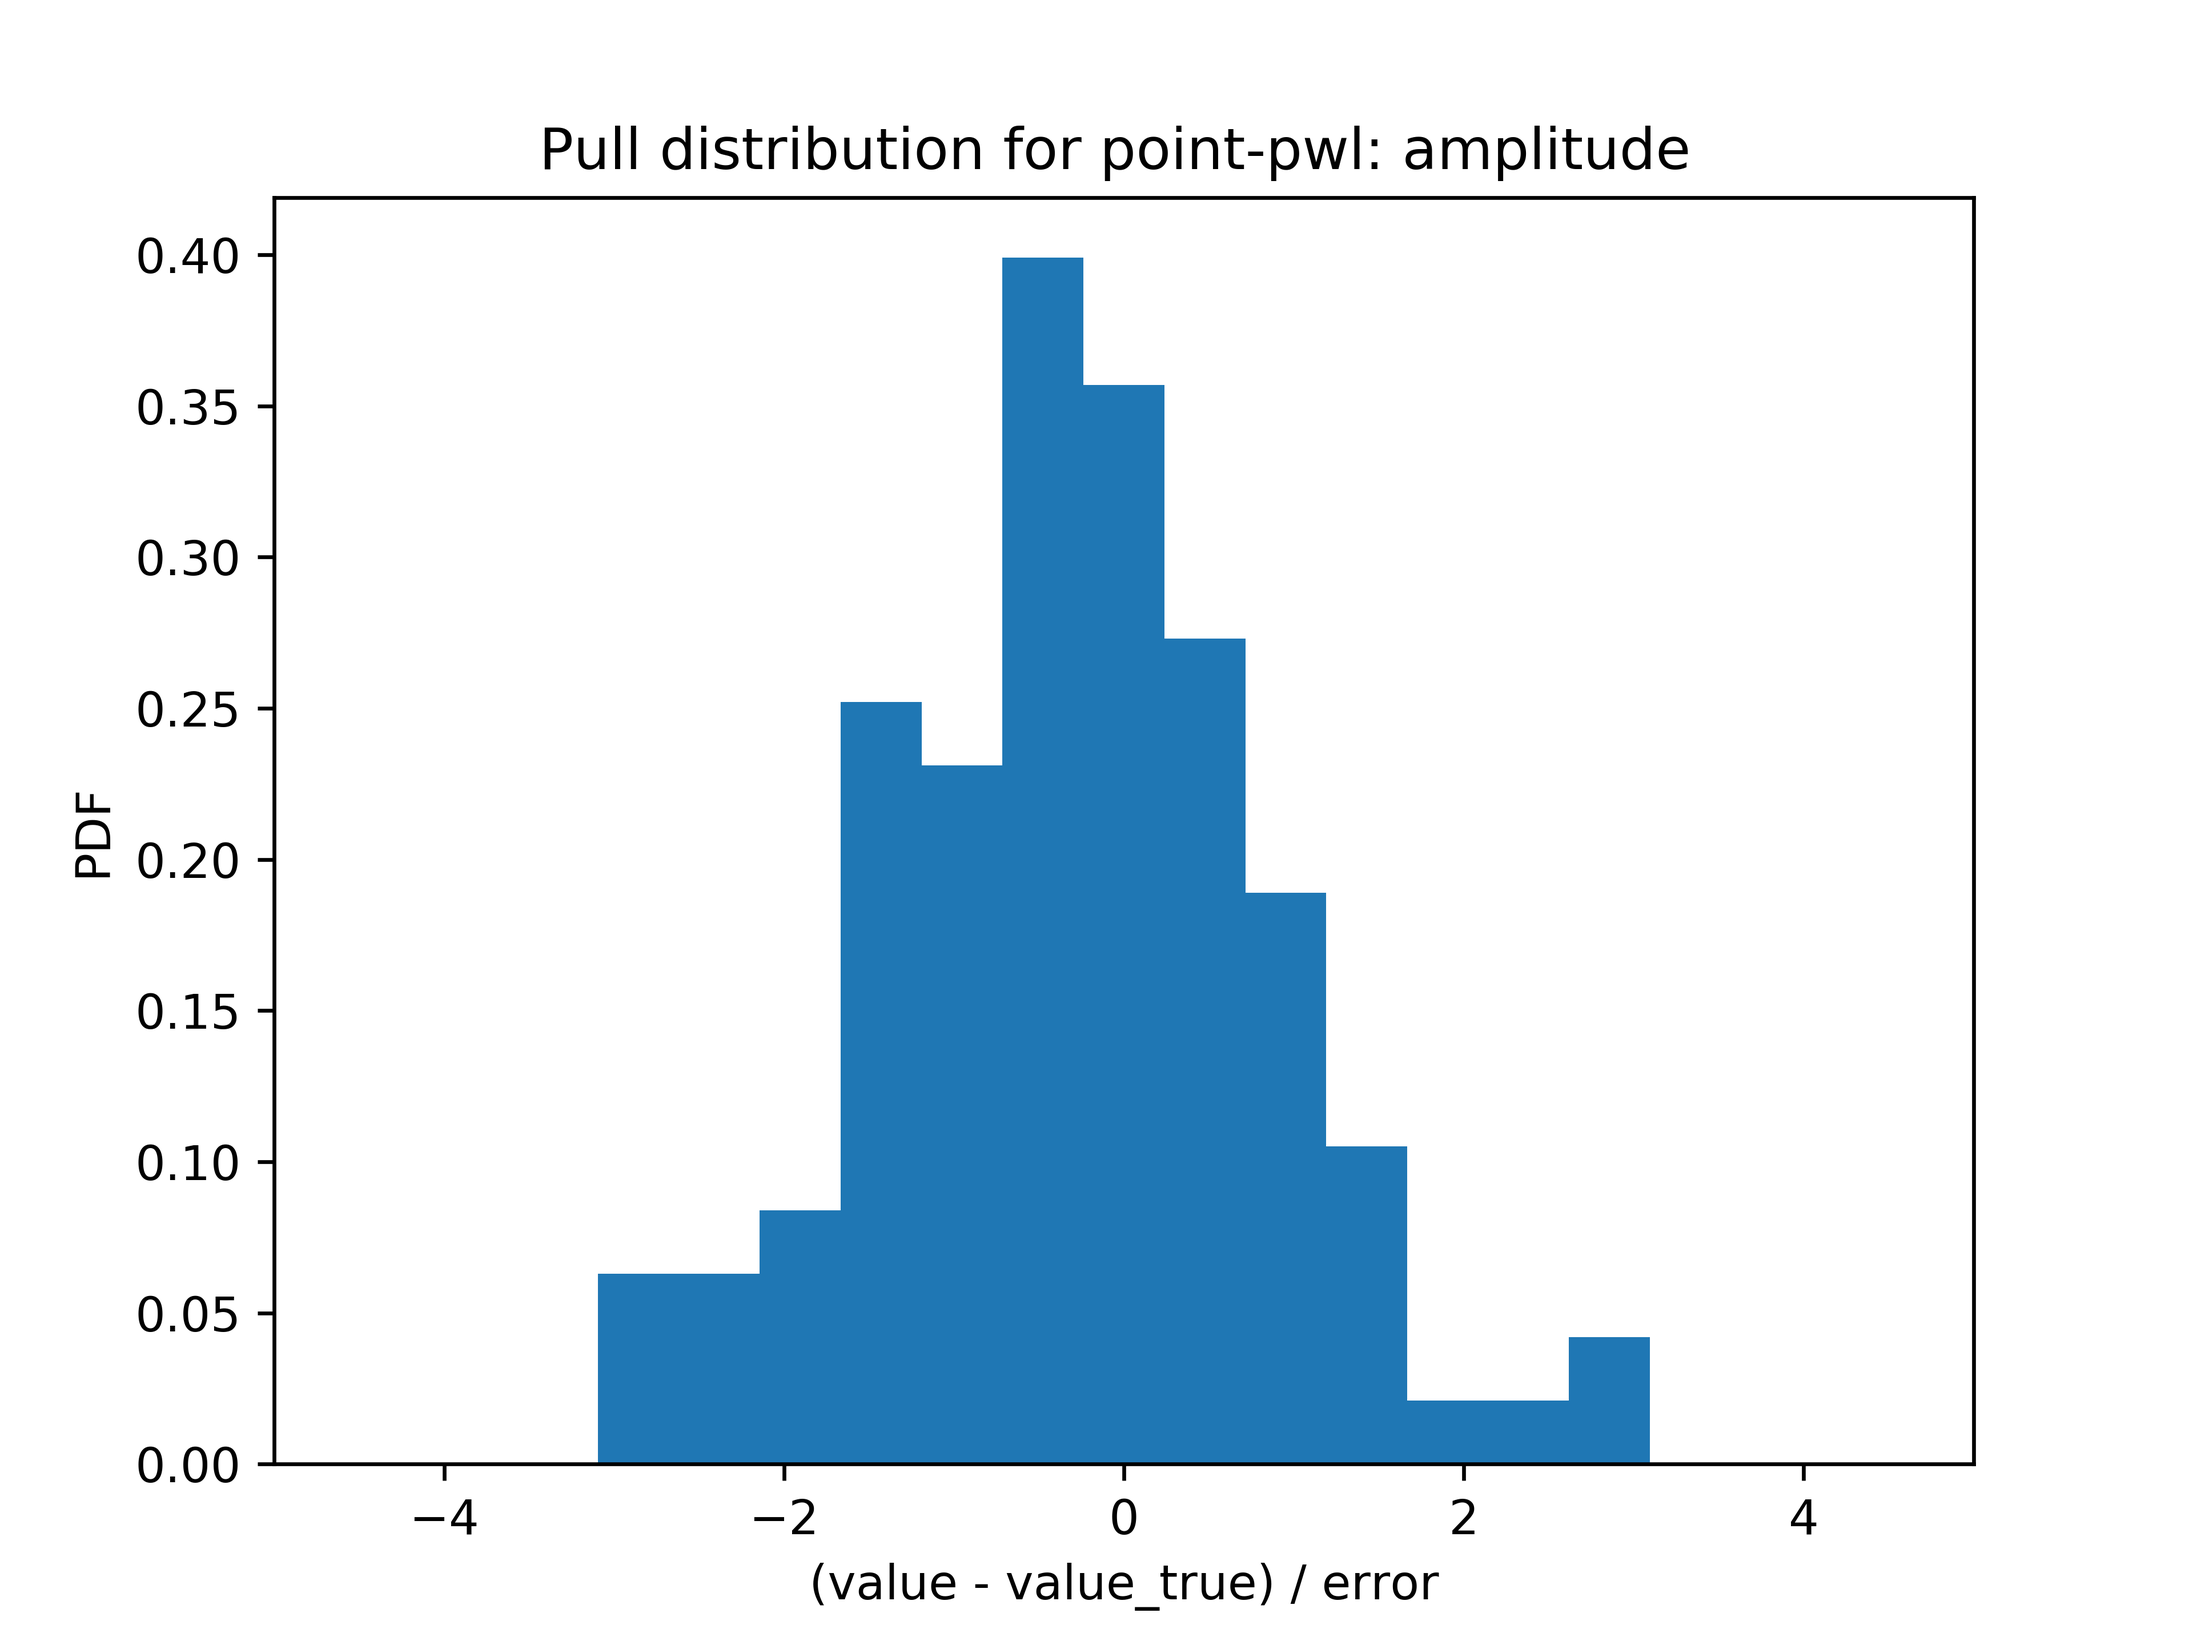
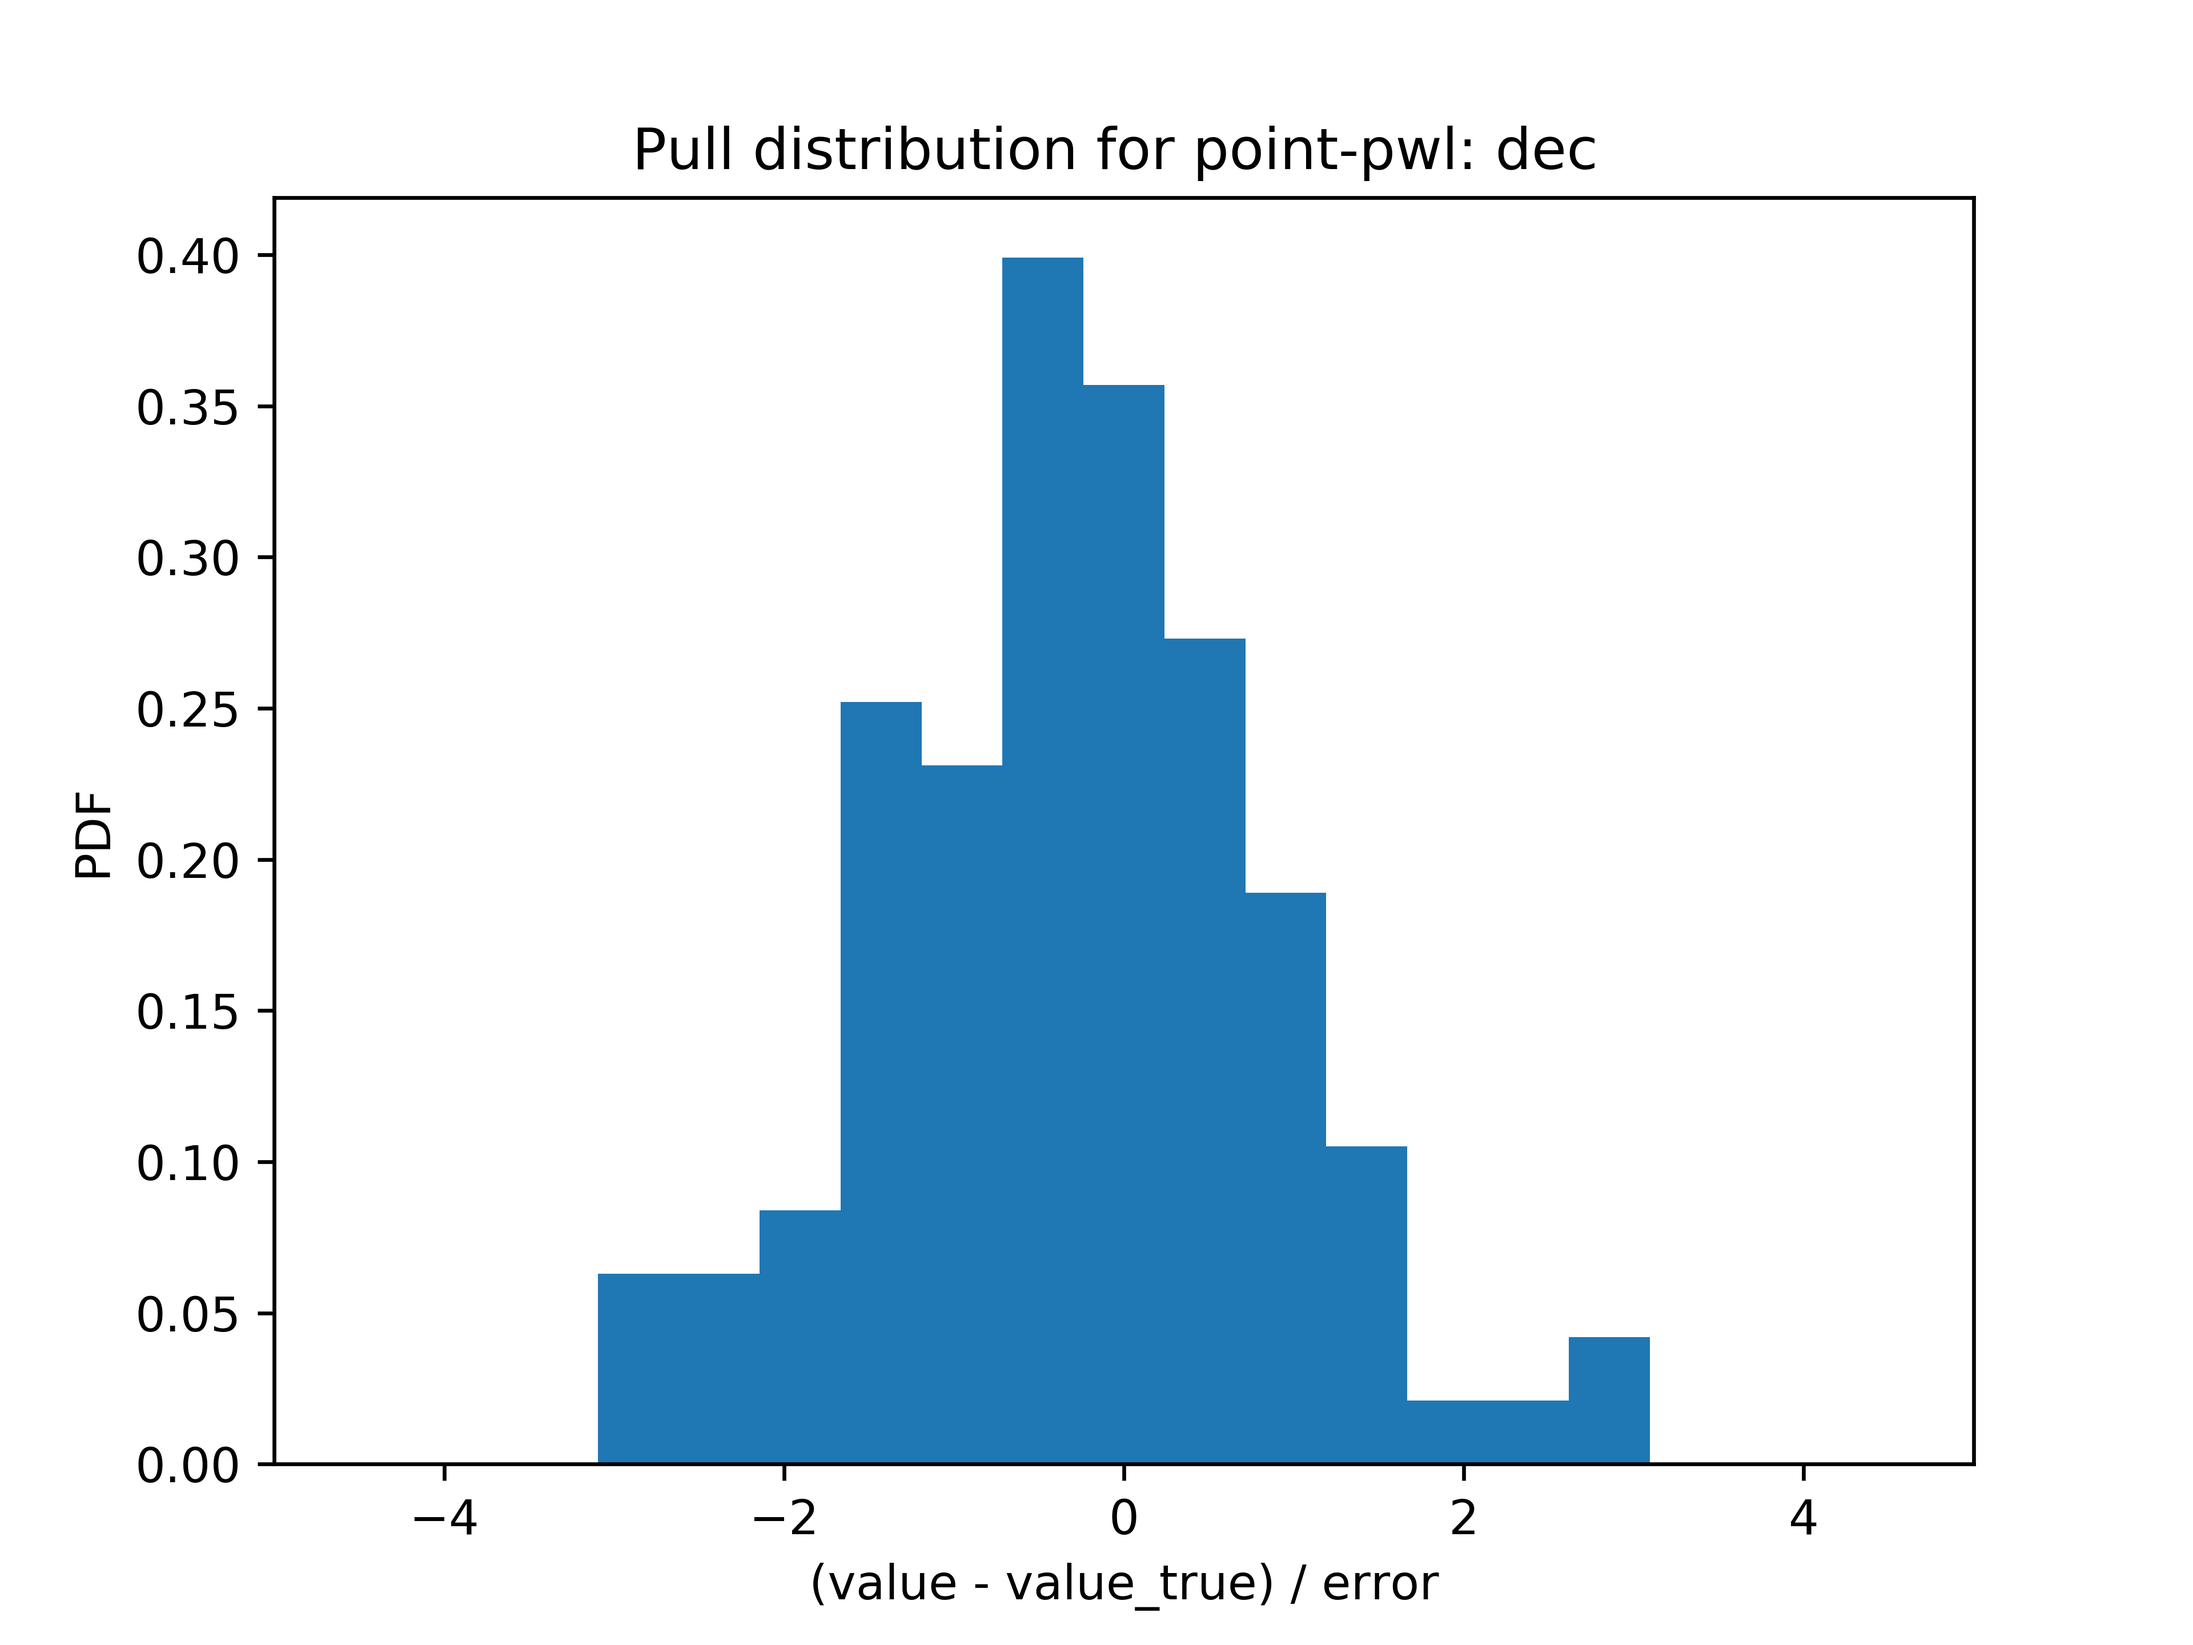
fixing bugs

Changed region(s): [[0.25, 0.0625, 0.7812, 0.125]]

diff --git a/validation/event-sampling/ctools/make.py b/validation/event-sampling/ctools/make.py
@@ -184,7 +184,7 @@ def plot_pull_distrib(model,obs_ids):
             plt.xlim(-5, 5)
             plt.xlabel("(value - value_true) / error")
             plt.ylabel("PDF")
-            plt.title(f"Pull distribution for {model}: amplitude ")
+            plt.title(f"Pull distribution for {model}: {name} ")
             filename = f"ctools/results/models/{model}/pull-distribution-{name}.png"
             save_figure(filename)
 
@@ -401,174 +401,5 @@ def save_figure(filename):
 
 if __name__ == "__main__":
     cli()
-
-
-
-##pippolo='_test'
-#pippolo=''
-#
-##for j in np.arange(3,20):
-#for j in np.arange(1,19):
-#    elem=str('{:02d}'.format(j))
-#    
-#    os.system('mkdir ' + elem)
-#    #xmlfile='models.xml'
-#    xmlfile=ACDC_MODEL_DIR+'/'+elem+'/mod_acdc1.1_'+elem+pippolo+'.xml'
-#    
-#    os.system('cp '+xmlfile+' ./'+elem)
-#    
-#    #outmodels=inmodels.copy()
-#    
-#    db = Table.read('db_par.txt', format='ascii')
-#    db2 = dict(zip(db['spMod'],db['pars']))
-#    
-#    mod = open('./'+elem+'/mod_acdc1.1_'+elem+pippolo+'.xml', 'w')
-#    xml=open(xmlfile)
-#    qq=xml.readlines()
-#    for q in qq:
-#        q=q.replace('free="1"' , 'free="0"')
-#            q=q.replace('name=' , 'tscalc="1" name=')
-#                mod.write(q)
-
-#mod.close()
-#
-#inmodels = gammalib.GModels('./'+elem+'/mod_acdc1.1_'+elem+pippolo+'.xml')
-##    inmodels_double = gammalib.GModels('./'+elem+'/mod_acdc1.1_'+elem+'.xml')
-#
-#for mod in inmodels:
-##      print(mod)
-#name=mod.name()
-##      if mod.spectral().type() == 'FileFunction':
-##            continue
-#
-#if name == 'GCDiff':
-#continue
-#if (name != 'CTABackgroundModel') and (name != 'IEM') and (name != 'Fermi bubbles'):
-#
-#print
-#print 'Facciamo', name
-#
-#if not mod.spatial().has_par('RA'):
-#try:
-#p=SkyCoord.from_name(name)
-#print 'e che sta in ', p.galactic.data
-#except:
-##                print("Non ho trovato le coordinate...")
-#print("Prendo le coordinate dalla mappa...")
-#ra = mod.spatial().region().ra()
-#dec = mod.spatial().region().dec()
-##                continue
-#else:
-#p=SkyCoord( ra=mod.spatial()['RA'].value()  ,dec=mod.spatial()['DEC'].value() , unit='deg', frame='icrs' )
-#print 'e che sta in ', p.galactic.data
-#
-##        mod.ts(1)
-#
-#
-##xmlout='results_'+name+'.xml'
-##outmodel=gammalib.GModels(xmlout)
-##outmodel=gammalib.GModels(xmlfile)
-##outmodels[name]=outmodel[name]
-#
-#
-#spmodel = mod.spectral().type()
-#print 'cha ha come modello spettrale una ',spmodel
-#pars= db2[spmodel].split(',')
-#print 'i cui parametri sono :',pars
-#
-#ctoolsfordummy.model_calculator(mod, e_pivot)  # ATTENZIONE, MODIFICA IL PREFACTOR MA NON IL PIVOT, CHE VIENE MODIFICATO NELLE RIGHE SUCCESSIVE
-#for par in pars:
-#mod.spectral()[par].free()
-#if mod.spectral().has_par('Scale'):
-##            mod.spectral()['Scale'].value(1e6)
-##            ref_e = mod.spectral().pivot()
-#mod.spectral()['Scale'].value(e_pivot*1e6)
-#mod.spectral()['Scale'].fix()
-#if mod.spectral().has_par('PivotEnergy'):
-##              mod.spectral()['PivotEnergy'].value(1e6)
-##              ref_e = mod.spectral().pivot()
-#mod.spectral()['PivotEnergy'].value(e_pivot*1e6)
-#mod.spectral()['PivotEnergy'].fix()
-##          print(mod.spectral()[par])
-##        flux_sim = mod.spectral().flux(ref_e *emin, ref_e*emax)
-#
-#inmodels.save('./'+elem+'/temp_'+str(name)+pippolo+'.xml')
-##
-##        print(inmodels)
-#for par in pars:
-#mod.spectral()[par].fix()
-#
-#
-#ctoolsfordummy.stackedPipeline(name=name,obsfile=OBS_DIR+'/obslist_acdc1.1_'+elem+'.xml',
-#l=p.galactic.l.value, b=p.galactic.b.value,
-#emin=emin, emax=emax, enumbins=nbin,
-#nxpix=npix, nypix=npix, binsz=binsz,
-#coordsys=coordsys, proj=proj, caldb=caldb, irf=irf,debug=False,
-#inmodel='./'+elem+'/temp_'+str(name)+pippolo)
-#
-#
-#temp_inmodel='./'+elem+'/temp_'+str(name)+pippolo+'.xml'
-#in_models = gammalib.GModels(temp_inmodel)
-#in_root = in_models[name]
-#in_spec = in_root.spectral()
-#in_spat = in_root.spatial()
-#
-#ctlike_results='./'+elem+'/temp_'+str(name)+pippolo+'_results.xml'
-#res_models = gammalib.GModels(ctlike_results)
-#root = res_models[name]
-#orig = root.spectral()
-#orig_sp = root.spatial()
-#
-#cts_sim = ctoolsfordummy.count_sim_calculator('/Users/fabio/LAVORO/CTA/ACDC_ASTRI/ACDC1.1/ANALYSIS_PIVOT_3TeV/list_src.txt', name, '/Users/fabio/LAVORO/CTA/ACDC_ASTRI/ACDC1.1/ANALYSIS_PIVOT_3TeV/'+str(elem)+'/obs-index.fits.gz', elem, emin, emax)
-#
-#if orig.type() == 'LogParabola':
-#function_sim = models.LogParabola(str(in_spec.prefactor() * 1e6) + 'cm-2 s-1 TeV-1', str(in_spec.pivot()), in_spec.index()*-1., in_spec.curvature()*-1.)
-#function_fit = models.LogParabola(str(orig.prefactor()*1e6) + 'cm-2 s-1 TeV-1', str(orig.pivot()), orig.index()*-1., orig.curvature()*-1.)
-#
-#if orig.type() == 'PowerLaw':
-#function_sim = models.PowerLaw(in_spec.index()*-1., str(in_spec.prefactor()*1e6) + ' cm-2 s-1 TeV-1', str(in_spec.pivot()))
-#function_fit = models.PowerLaw(orig.index()*-1., str(orig.prefactor()*1e6) + ' cm-2 s-1 TeV-1', str(orig.pivot()))
-#
-#if (orig.type() == 'ExpCutoff') | (orig.type() == 'ExponentialCutoffPowerLaw'):
-#function_sim = models.ExponentialCutoffPowerLaw(in_spec.index()*-1., str(in_spec.prefactor()*1e6) + ' cm-2 s-1 TeV-1', str(in_spec.pivot()), str(1./in_spec.cutoff().TeV()) + 'TeV-1')
-#function_fit = models.ExponentialCutoffPowerLaw(orig.index()*-1., str(orig.prefactor()*1e6) + ' cm-2 s-1 TeV-1', str(orig.pivot()), str(1./orig.cutoff().TeV()) + 'TeV-1')
-#
-#
-#if (orig.type() != 'FileFunction') and (orig.type() != 'ConstantValue'):
-#flux_sim = ctoolsfordummy.flux_calculation(emin, emax, function_sim)
-#flux_fit = ctoolsfordummy.flux_calculation(emin, emax, function_fit)
-#flux_error = ctoolsfordummy.random_flux_calculation(root, emin, emax, function_fit, flux_fit)
-#
-#in_models = gammalib.GModels(temp_inmodel)
-#in_root = in_models[name]
-#in_spec = in_root.spectral()
-#in_spat = in_root.spatial()
-#res_models = gammalib.GModels(ctlike_results)
-#root = res_models[name]
-#orig = root.spectral()
-#orig_sp = root.spatial()
-#
-#fd = open('./SRCs_best-fit.txt','a')
-#scrivi = str("field_"+ elem) + " " + str(name.replace(' ','_')) + " " + str(orig.type()) + " " + str(in_spec[1].value()) + " " + str(orig[1].value()) + " " + str(orig[1].error()) + " " + str(in_spec[0].value()*1e6) + " " + str(orig[0].value()*1e6) + " " + str(orig[0].error()*1e6) + " " + str(in_spec.pivot()).replace(' ','_') + " " + str(orig.pivot()).replace(' ','_') + " " + str(in_spec[2].value()) + " " + str(orig[2].value()) + " " + str(orig[2].error()) + " " + str(root.ts()) + " " + str(flux_sim) + " " + str(flux_fit) + " " + str(flux_error) + " " + str(root.type()) + " " + str(orig_sp.type()) + " " + str(orig_sp.region().radius()) + " " + str(cts_sim)
-##            scrivi = str("field_"+ elem) + " " + str(name.replace(' ','_')) + " " + str(orig.type()) + " " + str(mod.spectral().index()) + " " + str(orig.index()) + " " + str(orig[1].error()) + " " + str(mod.spectral()[0].value()*1e6) + " " + str(orig[0].value()*1e6) + " " + str(orig[0].error()*1e6) + " " + str(mod.spectral().pivot()) + " " + str(orig.pivot()) + " " + str(mod.spectral()[2].value()) + " " + str(orig[2].value()) + " " + str(orig[2].error()) + " " + str(root.ts()) + " " + str(flux_sim) + " " + str(flux_fit) + " " + str(flux_error) + " " + str(root.type()) + " " + str(orig_sp.type()) + " " + str(orig_sp.region().radius()) + " " + str(cts_sim)
-#fd.write(scrivi +"\n")
-#fd.close()
-#
-#else:
-#fd = open('./SRCs_best-fit.txt','a')
-#scrivi = str("field_"+ elem) + " " + str(name.replace(' ','_')) + " " + str(orig.type()) + " " + str(0.0) + " " + str(0.0) + " " + str(0.0) + " " + str(0.0) + " " + str(0.0) + " " + str(0.0) + " " + str(0.0) + " " + str(0.0) + " " + str(0.0) + " " + str(0.0) + " " + str(0.0) + " " + str(root.ts()) + " " + str(1.0) + " " + str(orig[0].value()) + " " + str(orig[0].error()) + " " + str(root.type()) + " " + str(orig_sp.type()) + " " + str(orig_sp.region().radius()) + " " + str(cts_sim)
-#fd.write(scrivi +"\n")
-#fd.close()
-#
-#os.system('mv ./'+str(elem)+'/temp_'+str(name.replace(' ','\ '))+'.xml ./'+str(elem)+'/temp_'+str(name.replace(' ',''))+'.xml')
-#os.system('mv ./'+str(elem)+'/temp_'+str(name.replace(' ','\ '))+'_spec.fits ./'+str(elem)+'/temp_'+str(name.replace(' ',''))+'_spec.fits')
-#os.system('mv ./'+str(elem)+'/temp_'+str(name.replace(' ','\ '))+'_results.xml ./'+str(elem)+'/temp_'+str(name.replace(' ',''))+'_results.xml')
-#os.system('mv ./'+str(elem)+'/temp_'+str(name.replace(' ','\ '))+'_butterfly.txt ./'+str(elem)+'/temp_'+str(name.replace(' ',''))+'_butterfly.txt')
-##        os.system('mv ./'+str(elem)+'/temp_'+str(name.replace(' ','\ '))+'_covmat.txt ./'+str(elem)+'/temp_'+str(name.replace(' ',''))+'_covmat.txt')
-#
-#ctoolsfordummy.plotter_for_paper(elem,name)
-#
-#
-
 
 
